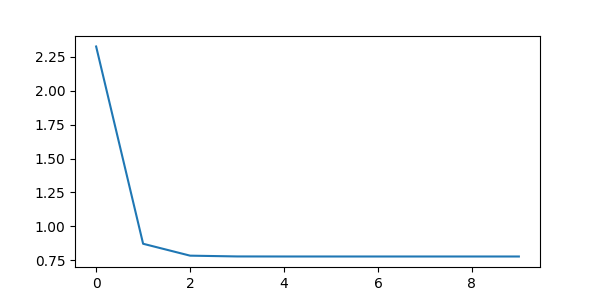
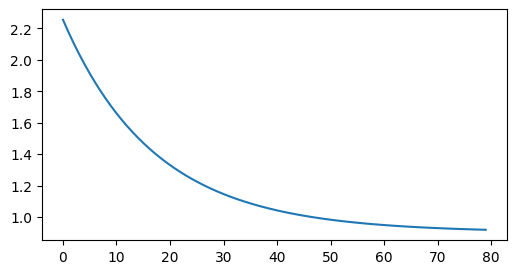
move code to module pmds, work with fixed points

diff --git a/pmds/pmds.py b/pmds/pmds.py
@@ -10,8 +10,9 @@ from jax import random
 from jax.scipy.special import xlogy, i0e, i1e
 from jax.test_util import check_grads
 
-from utils import chunks
-from score import stress
+from .utils import chunks
+from .score import stress
+
 
 EPSILON = 1e-7
 SCALE = 1e-5
@@ -130,7 +131,8 @@ def pmds(
     all_loss = []
     for epoch in range(epochs):
         loss = 0.0
-        for i, batch in enumerate(chunks(dists_with_indices, batch_size)):
+        # note when run with fixed point, do not shuffle
+        for i, batch in enumerate(chunks(dists_with_indices, batch_size, shuffle=True)):
             # unpatch pairwise distances and indices of points in each pair
             dists, pair_indices = list(zip(*batch))
             i0, i1 = list(zip(*pair_indices))
@@ -172,6 +174,128 @@ def pmds(
             ss_unc = jax.ops.index_add(
                 ss_unc, related_indices, -grads_ss_unc / batch_size
             )
+        loss = float(loss / (i + 1))
+        mds_stress = (
+            stress(debug_D_squareform, mu) if debug_D_squareform is not None else 0.0
+        )
+        all_loss.append(loss)
+
+        mlflow.log_metric("loss", loss)
+        mlflow.log_metric("stress", mds_stress)
+        print(
+            f"[DEBUG] epoch {epoch}, loss: {loss:.2f}, stress: {mds_stress:,.2f}"
+            f" mu in [{float(jnp.min(mu)):.3f}, {float(jnp.max(mu)):.3f}], "
+            f" ss_unc in [{float(jnp.min(ss_unc)):.3f}, {float(jnp.max(ss_unc)):.3f}]"
+        )
+
+    ss = EPSILON + jax.nn.softplus(SCALE * ss_unc)
+    print("[DEBUG] mean ss: ", float(jnp.mean(ss)))
+    mlflow.log_metric("mean_ss", float(jnp.mean(ss)))
+    return mu, ss, all_loss
+
+
+def pmds_with_fixed_points(
+    p_dists,
+    n_samples,
+    n_components=2,
+    batch_size=0,
+    random_state=42,
+    lr=1e-3,
+    epochs=20,
+    debug_D_squareform=None,
+    fixed_points=[],
+):
+    assert n_components in [2, 4]
+    batch_size = batch_size or len(p_dists)
+    print(f"[DEBUG]: using learning rate: {lr} and batch size of {batch_size}")
+
+    # init mu and sigma square. Transform unconstrained sigma square `ss_unc` to `ss`.
+    key_m, key_s = random.split(random.PRNGKey(random_state))
+    mu = random.normal(key_m, (n_samples, n_components))
+    ss_unc = random.normal(key_s, (n_samples,))
+
+    # set fixed points
+    for idx, x, y in fixed_points:
+        mu = jax.ops.index_update(mu, idx, [x, y])
+        ss_unc = jax.ops.index_update(ss_unc, idx, 1e-3)
+
+    # patch pairwise distances and indices of each pairs together
+    if isinstance(p_dists[0], float):
+        all_pairs = list(combinations(range(n_samples), 2))
+        assert len(p_dists) == len(all_pairs)
+        dists_with_indices = list(zip(p_dists, all_pairs))
+    else:
+        dists_with_indices = p_dists
+
+    # function to calculate log pdf of X-square for a single input `d` given the params.
+    def loss_one_pair(mu_i, mu_j, s_i, s_j, d):
+        nc = jnp.sum((mu_i - mu_j) ** 2) / (s_i + s_j)
+        return -_ncx2_log_pdf(x=d, df=n_components, nc=nc)
+
+    # prepare the log pdf function of one sample to run in batch mode
+    loss_and_grads_batched = jax.vmap(
+        # take gradient w.r.t. the 1st, 2nd, 3rd and 4th params
+        jax.jit(jax.value_and_grad(loss_one_pair, argnums=[0, 1, 2, 3])),
+        # parallel for all input params
+        in_axes=(0, 0, 0, 0, 0),
+        # scalar output
+        out_axes=0,
+    )
+
+    all_loss = []
+    for epoch in range(epochs):
+        loss = 0.0
+        # note when run with fixed point, do not shuffle
+        for i, batch in enumerate(
+            chunks(dists_with_indices, batch_size, shuffle=False)
+        ):
+            # unpatch pairwise distances and indices of points in each pair
+            dists, pair_indices = list(zip(*batch))
+            i0, i1 = list(zip(*pair_indices))
+            i0, i1 = list(i0), list(i1)
+
+            # get the params for related indices from global `mu` and `ss`
+            mu_i, mu_j = mu[i0], mu[i1]
+            ss_i = EPSILON + jax.nn.softplus(SCALE * ss_unc[i0])
+            ss_j = EPSILON + jax.nn.softplus(SCALE * ss_unc[i1])
+            assert len(mu_i) <= batch_size
+
+            # calculate loss and gradients in each batch
+            loss_batch, grads = loss_and_grads_batched(
+                mu_i, mu_j, ss_i, ss_j, jnp.array(dists)
+            )
+
+            if jnp.any(jnp.isnan(loss_batch)):
+                raise ValueError(
+                    "NaN encountered in loss value."
+                    "Check if the `nc` params of X-square dist. are non-positive"
+                )
+            loss += jnp.mean(loss_batch)
+
+            # update gradient for the corresponding related indices
+            grads_mu = jnp.concatenate((lr * grads[0], lr * grads[1]), axis=0)
+            grads_ss = jnp.concatenate((lr * grads[2], lr * grads[3]), axis=0)
+            related_indices = i0 + i1
+            assert grads_mu.shape[0] == grads_ss.shape[0] == len(related_indices)
+
+            # update gradient for mu
+            mu = jax.ops.index_add(mu, related_indices, -grads_mu / batch_size)
+
+            # update gradient for constrained variable ss
+            # first, calculate gradient for unconstrained variable ss_unc
+            grads_ss_unc = (
+                grads_ss * jax.nn.sigmoid(SCALE * ss_unc[related_indices]) * SCALE
+            )
+            # then, update the unconstrained variable ss_unc
+            ss_unc = jax.ops.index_add(
+                ss_unc, related_indices, -grads_ss_unc / batch_size
+            )
+
+            # correct pos and gradient for fixe points
+            for idx, x, y in fixed_points:
+                mu = jax.ops.index_update(mu, idx, [x, y])
+                ss_unc = jax.ops.index_update(ss_unc, idx, 1e-3)
+
         loss = float(loss / (i + 1))
         mds_stress = (
             stress(debug_D_squareform, mu) if debug_D_squareform is not None else 0.0

diff --git a/run_pmds.py b/run_pmds.py
@@ -1,15 +1,13 @@
 # import numpy as np
 import random
 from itertools import combinations
-from matplotlib import pyplot as plt
 import mlflow
 
 from sklearn.manifold import MDS
 from scipy.spatial.distance import squareform
 
-from dataset import load_dataset
-from pmds import pmds
-from score import stress
+from pmds.pmds import pmds, pmds_with_fixed_points
+from pmds import score, plot, dataset, config
 
 
 def run_pdms(D, N, args, labels=None):
@@ -30,7 +28,7 @@ def run_pdms(D, N, args, labels=None):
     # Probabilistic MDS uses Squared Euclidean distances.
     D_squareform = squareform(D)
 
-    Z, Z_var, losses = pmds(
+    Z1, Z1_var, losses = pmds_with_fixed_points(
         p_dists,
         n_samples=N,
         n_components=args.n_components,
@@ -39,7 +37,9 @@ def run_pdms(D, N, args, labels=None):
         lr=args.learning_rate,
         random_state=args.random_state,
         debug_D_squareform=D_squareform,
+        fixed_points=args.fixed_points,
     )
+    plot.line(losses, out_name=f"{plot_dir}/loss.png")
 
     # original MDS
     Z0 = MDS(
@@ -50,31 +50,23 @@ def run_pdms(D, N, args, labels=None):
     ).fit_transform(D_squareform)
 
     # compare stress of 2 embedding
-    s0, s1 = stress(D_squareform, Z0), stress(D_squareform, Z)
+    s0 = score.stress(D_squareform, Z0)
+    s1 = score.stress(D_squareform, Z1)
     print(
         f"Stress scores Original MDS: {s0:,.2f} \n"
         f"              PMDS:         {s1:,.2f}, diff = {s1 - s0:,.2f}"
     )
 
-    fig, [ax0, ax1] = plt.subplots(1, 2, figsize=(10, 4))
-    ax0.set_title(f"Original MDS (stress={s0:,.2f})")
-    ax0.scatter(*Z0.T, c=labels, cmap="tab10")
-
-    ax1.set_title(f"Probabilistic MDS (stress={s1:,.2f})")
-    ax1.scatter(*Z.T, c=labels, cmap="tab10")
-    fig.savefig(f"{plot_dir}/Z.png")
-    mlflow.log_artifact(f"{plot_dir}/Z.png")
-
-    fig, ax = plt.subplots(1, 1, figsize=(6, 3))
-    ax.plot(losses)
-    fig.savefig(f"{plot_dir}/loss.png")
-    mlflow.log_artifact(f"{plot_dir}/loss.png")
+    titles = [
+        f"Original MDS (stress={s0:,.2f})",
+        f"Probabilistic MDS (stress={s1:,.2f})",
+    ]
+    plot.compare_scatter(Z0, Z1, labels, titles, out_name=f"{plot_dir}/Z.png")
 
 
 if __name__ == "__main__":
     import os
     import argparse
-    from config import pre_config
 
     parser = argparse.ArgumentParser()
     argm = parser.add_argument
@@ -97,7 +89,7 @@ if __name__ == "__main__":
 
     if args.use_pre_config:
         # load predefined config and update the config with new input arguments
-        config = pre_config[method_name][dataset_name]
+        config = config.pre_config[method_name][dataset_name]
         args = argparse.Namespace(**config)
     print("[DEBUG] input args: ", args)
 
@@ -106,8 +98,12 @@ if __name__ == "__main__":
         os.mkdir(plot_dir)
 
     # load pairwise Euclidean distances
-    D, labels, N = load_dataset(
-        dataset_name, std=args.std, pca=args.pca, n_samples=args.n_samples
+    D, labels, N = dataset.load_dataset(
+        dataset_name,
+        data_dir="./data",
+        std=args.std,
+        pca=args.pca,
+        n_samples=args.n_samples,
     )
 
     mlflow.set_experiment(f"pmds_{method_name}")

diff --git a/pmds/plot.py b/pmds/plot.py
@@ -1,0 +1,37 @@
+import mlflow
+import numpy as np
+import matplotlib.pyplot as plt
+
+
+def line(points, out_name="line.png"):
+    fig, ax = plt.subplots(1, 1, figsize=(6, 3))
+    ax.plot(points)
+    fig.savefig(out_name, bbox_inches="tight")
+    mlflow.log_artifact(out_name)
+
+
+def scatter(Z, labels, title="", ax=None, out_name="Z.png"):
+    fig, ax = plt.subplots(1, 1, figsize=(6, 6)) if ax is None else (None, ax)
+
+    p = {}
+    if labels is None:
+        ...
+    elif isinstance(labels[0], str):
+        for (x, y), s in zip(Z, labels):
+            ax.text(x * 0.85, y, s)
+    else:
+        p = dict(c=labels, cmap="tab10")
+
+    ax.set_title(title)
+    ax.scatter(*Z.T, **p)
+    if fig is not None:
+        fig.savefig(out_name, bbox_inches="tight")
+
+
+def compare_scatter(Z0, Z1, labels, titles, out_name="compare.png"):
+    fig, [ax0, ax1] = plt.subplots(1, 2, figsize=(10, 4))
+    scatter(Z0, labels, titles[0], ax=ax0)
+    scatter(Z1, labels, titles[1], ax=ax1)
+
+    fig.savefig(out_name, bbox_inches="tight")
+    mlflow.log_artifact(out_name)

diff --git a/pmds/config.py b/pmds/config.py
@@ -11,6 +11,7 @@ pre_config = {
             random_state=42,
             std=True,  # standardize
             pca=None,
+            fixed_points=[],
         ),
         "digits": dict(
             n_samples=150,  # 1797
@@ -53,14 +54,15 @@ pre_config = {
             pca=None,
         ),
         "cities_us_toy": dict(
-            n_samples=9,
+            n_samples=None,  # 10
             n_components=2,
             batch_size=0,
-            epochs=10,
-            learning_rate=5,
+            epochs=80,
+            learning_rate=0.2,
             random_state=42,
             std=False,
             pca=None,
+            fixed_points=[(6, 0.0, 0.0), (0, 0.5, -0.1), (5, 0.25, -0.8)],
         ),
         "qpcr": dict(
             n_samples=437,

diff --git a/data/cities_us.py b/data/cities_us.py
@@ -17,11 +17,12 @@ def parse_toy_data(data_dir="."):
             s = line.split()
             lats.append(radians(float(s[1])))
             longs.append(radians(float(s[2])))
-            names.append("".join(s[3:]))
+            names.append(" ".join(s[3:]))
 
     X = np.array(list(zip(lats, longs)))
     dists = haversine_distances(X)  # * 6_371_000 / 1_000 to km
-    return squareform(dists), np.ones(len(names)), len(names)
+    dists /= dists.max()
+    return squareform(dists), np.array(names), len(names)
 
 
 def parse_dists(data_dir="."):
